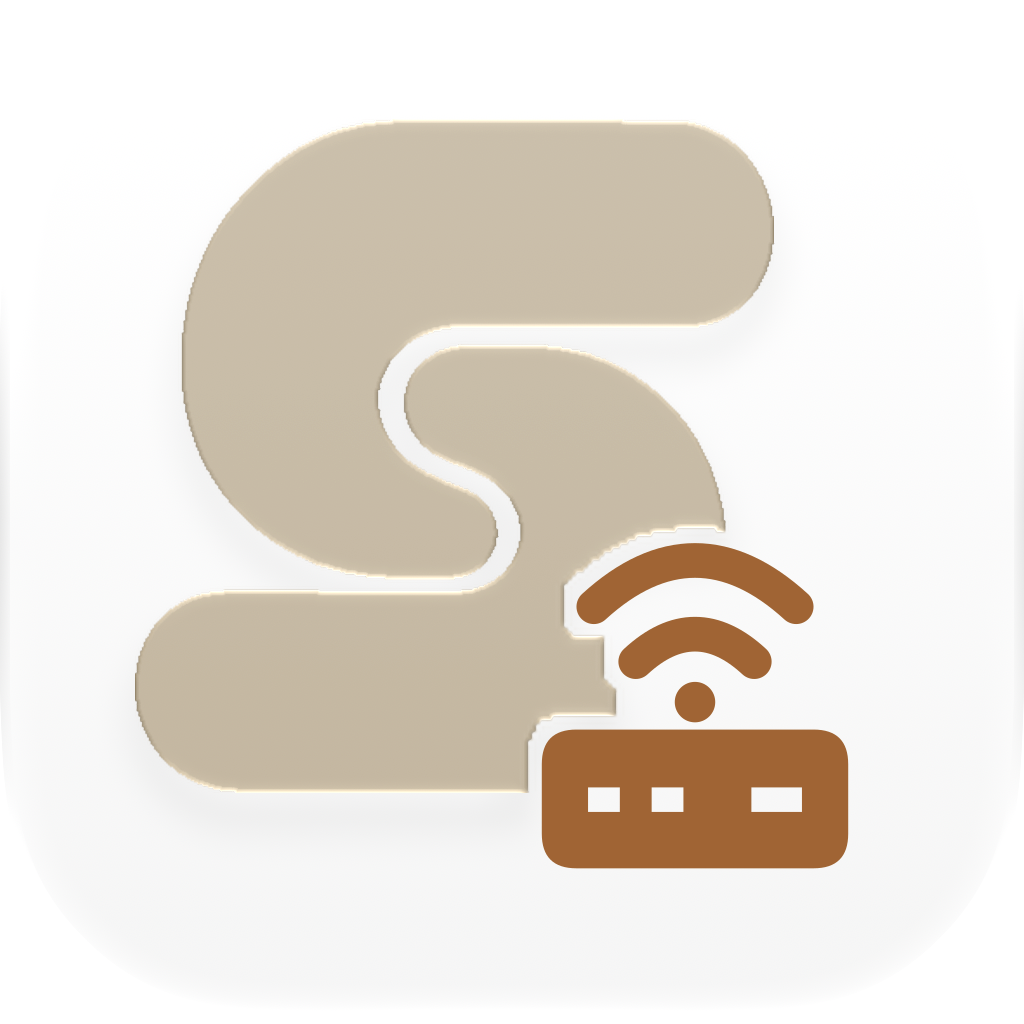
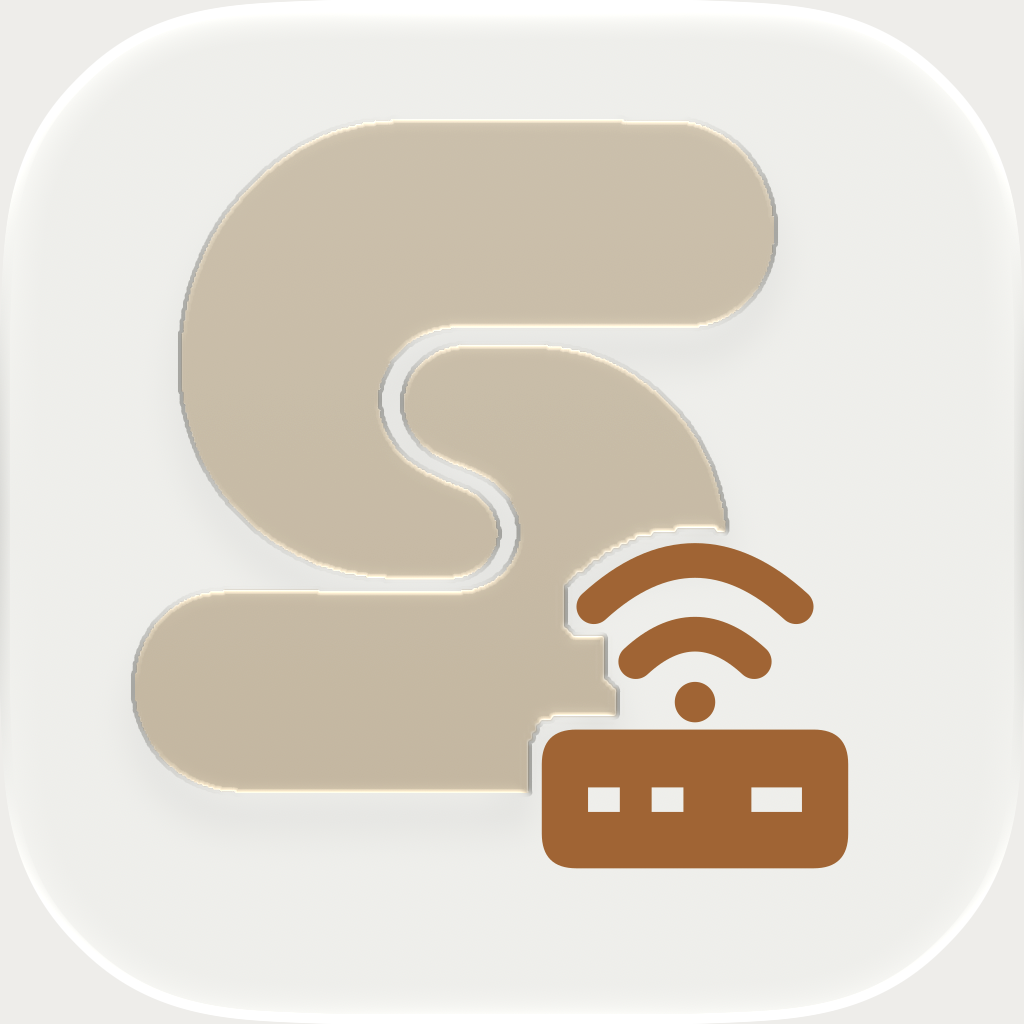
style: refresh Liquid Topography brand assets

diff --git a/assets/branding/public-kit/README.md b/assets/branding/public-kit/README.md
@@ -18,7 +18,8 @@ Editable, local-first communications assets for the CLI/MCP product. This adapts
 ## Provenance and QA
 
 - Sources: the local OpenDesign `symaira-fritz` Brand & Assets handoff (version 0.23.0), adapted to the independent public wordmark. Each derivative source/export is bound by SHA-256 and dimensions in `manifest.json`. The monochrome variant is derived from the foreground mark by using its light foreground color. The terminal illustration's command and output were corrected to a **clearly synthetic text-format** example, then re-rendered from its SVG. The 1x PNG exports were rendered from the paired SVGs with headless Chromium; the SVGs remain the editable source.
-- The pre-existing `assets/branding/product-logo.png`, approved A3 signet, and `docs/assets/social-preview.png` remain untouched. Repository assets are canonical after this reviewed import; the OpenDesign project is not a runtime dependency.
+- Visual refresh: neutral Liquid Topography surfaces and Google Sans Flex (`opsz` 18), without the old glow or decorative grid. The approved **Symaira Router** wording, compatibility disclaimer, foreground marks, content and geometry are preserved. The SVGs retain a system-font fallback; distribute the PNG exports for exact typography. No font subset or external font service is used.
+- The approved A3 foreground remains unchanged; its separate icon background and the common product-logo/social assets follow the shared family refresh. Repository assets remain canonical; OpenDesign is not a runtime dependency.
 - SVGs are transparent for the foreground marks and contain no external image URLs or scripts. Social/release/README exports use synthetic copy and the public GitHub profile URL; the terminal illustration says explicitly that it contains no router data.
 - Visual inspection at full size and thumbnail: headline and router mark stay readable; secondary copy/URL is not promised at tiny preview sizes. The terminal graphic was checked after regeneration for text and clipping. `python3 scripts/test_brand_assets.py` validates every manifest hash, SVG/PNG dimensions, and a basic private-network/secret-pattern guard in CI.
 
